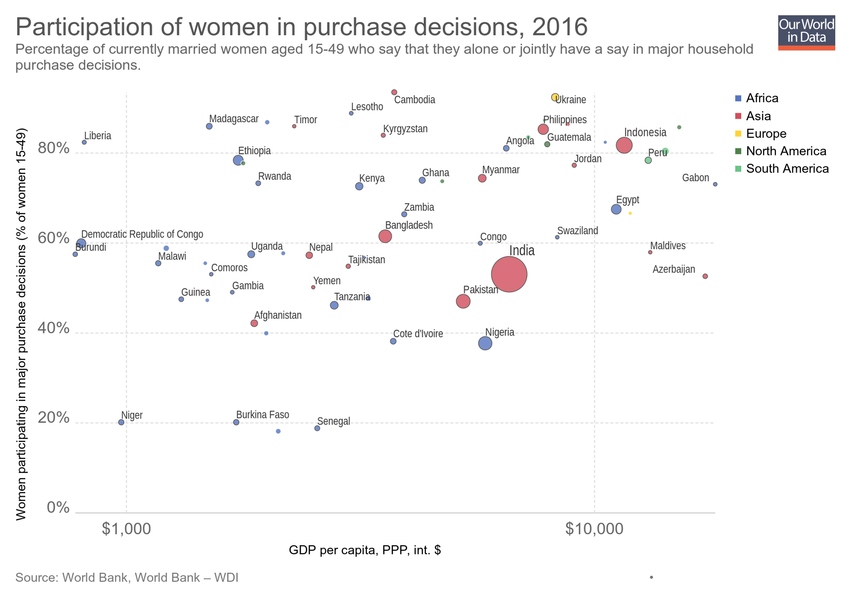
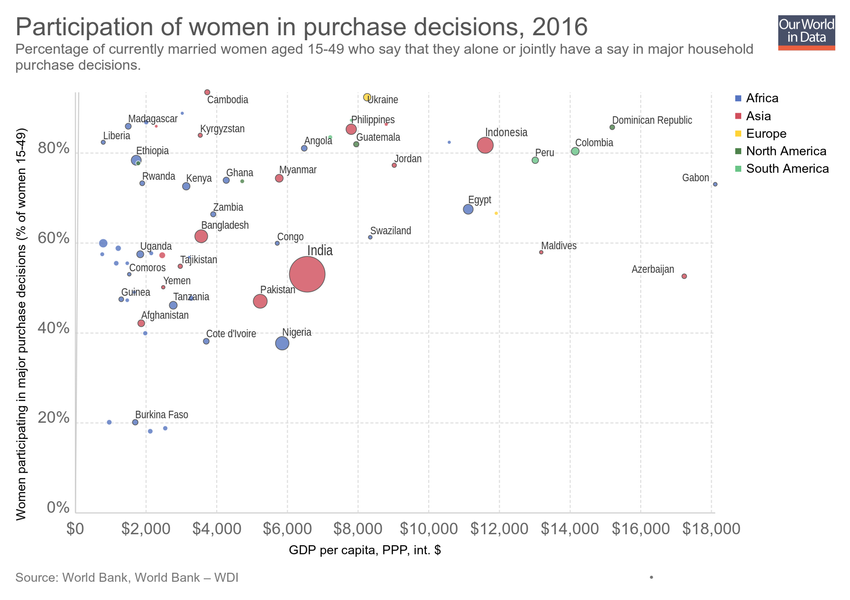
Updating chart participation-of-women-in-purchase-decisions

diff --git a/grapher/participation-of-women-in-purchase-decisions.html b/grapher/participation-of-women-in-purchase-decisions.html
@@ -1,4 +1,4 @@
-<!doctype html><html><head><meta name="viewport" content="width=device-width, initial-scale=1" /><title>Participation of women in purchase decisions - Our World in Data</title><meta name="description" content="Percentage of currently married women aged 15-49 who say that they alone or jointly have a say in major household purchase decisions." /><link rel="canonical" href="https://ourworldindata.org/grapher/participation-of-women-in-purchase-decisions" /><meta property="fb:app_id" content="1149943818390250" /><meta property="og:url" content="https://ourworldindata.org/grapher/participation-of-women-in-purchase-decisions" /><meta property="og:title" content="Participation of women in purchase decisions" /><meta property="og:description" content="Percentage of currently married women aged 15-49 who say that they alone or jointly have a say in major household purchase decisions." /><meta property="og:image" content="https://ourworldindata.org/grapher/exports/participation-of-women-in-purchase-decisions.png?v=6" /><meta property="og:image:width" content="850" /><meta property="og:image:height" content="600" /><meta property="og:site_name" content="Our World in Data" /><meta name="twitter:card" content="summary_large_image" /><meta name="twitter:site" content="@OurWorldInData" /><meta name="twitter:creator" content="@OurWorldInData" /><meta name="twitter:title" content="Participation of women in purchase decisions" /><meta name="twitter:description" content="Percentage of currently married women aged 15-49 who say that they alone or jointly have a say in major household purchase decisions." /><meta name="twitter:image" content="https://ourworldindata.org/grapher/exports/participation-of-women-in-purchase-decisions.png?v=6" /><style>
+<!doctype html><html><head><meta name="viewport" content="width=device-width, initial-scale=1" /><title>Participation of women in purchase decisions - Our World in Data</title><meta name="description" content="Percentage of currently married women aged 15-49 who say that they alone or jointly have a say in major household purchase decisions." /><link rel="canonical" href="https://ourworldindata.org/grapher/participation-of-women-in-purchase-decisions" /><meta property="fb:app_id" content="1149943818390250" /><meta property="og:url" content="https://ourworldindata.org/grapher/participation-of-women-in-purchase-decisions" /><meta property="og:title" content="Participation of women in purchase decisions" /><meta property="og:description" content="Percentage of currently married women aged 15-49 who say that they alone or jointly have a say in major household purchase decisions." /><meta property="og:image" content="https://ourworldindata.org/grapher/exports/participation-of-women-in-purchase-decisions.png?v=8" /><meta property="og:image:width" content="850" /><meta property="og:image:height" content="600" /><meta property="og:site_name" content="Our World in Data" /><meta name="twitter:card" content="summary_large_image" /><meta name="twitter:site" content="@OurWorldInData" /><meta name="twitter:creator" content="@OurWorldInData" /><meta name="twitter:title" content="Participation of women in purchase decisions" /><meta name="twitter:description" content="Percentage of currently married women aged 15-49 who say that they alone or jointly have a say in major household purchase decisions." /><meta name="twitter:image" content="https://ourworldindata.org/grapher/exports/participation-of-women-in-purchase-decisions.png?v=8" /><style>
         html, body {
             height: 100%;
             margin: 0;
@@ -20,8 +20,8 @@
         }
     </style><noscript><style>
                     figure { display: none !important; }
-                </style></noscript><link rel="stylesheet" href="https://ourworldindata.org/grapher/assets/commons.bundle.62f8703dfc964fd3975c.css" /><link rel="preload" href="/grapher/data/variables/43390+2210+72+123.json?v=6" as="fetch" crossorigin /></head><body class="singleChart"><figure data-grapher-src="/grapher/participation-of-women-in-purchase-decisions"></figure><noscript id="fallback"><img src="/grapher/exports/participation-of-women-in-purchase-decisions.svg" /><p>Interactive visualization requires JavaScript</p></noscript><script src="https://cdn.polyfill.io/v2/polyfill.min.js?features=es6,fetch"></script><script src="https://ourworldindata.org/grapher/assets/commons.bundle.62f8703dfc964fd3975c.js"></script><script src="https://ourworldindata.org/grapher/assets/charts.bundle.dcf65b68eddaba4c6a58.js"></script><script>
-        var jsonConfig = {"id":2414,"map":{"projection":"World","targetYear":2015,"variableId":43460,"colorSchemeLabels":[null,null,null,null,null],"colorSchemeValues":[],"defaultProjection":"World","colorSchemeMinValue":0,"customNumericColors":[],"customCategoryColors":{},"customCategoryLabels":{},"customHiddenCategories":{}},"tab":"chart","slug":"participation-of-women-in-purchase-decisions","type":"ScatterPlot","title":"Participation of women in purchase decisions","xAxis":{"min":0,"scaleType":"log","canChangeScaleType":true},"yAxis":{"min":0,"scaleType":"linear"},"maxTime":2016,"minTime":2016,"version":6,"subtitle":"Percentage of currently married women aged 15-49 who say that they alone or jointly have a say in major household purchase decisions.","hasMapTab":true,"stackMode":"absolute","dimensions":[{"display":{"name":"Women participating in major purchase decisions (% of women 15-49)","tolerance":10},"property":"y","variableId":43390},{"display":{"name":"GDP per capita, PPP, int. $","tolerance":10},"property":"x","variableId":2210},{"display":{},"property":"size","variableId":72},{"display":{},"property":"color","variableId":123}],"hasChartTab":true,"isPublished":true,"hideTimeline":true,"selectedData":[],"addCountryMode":"add-country","comparisonLine":{}};
+                </style></noscript><link rel="stylesheet" href="https://ourworldindata.org/grapher/assets/commons.bundle.62f8703dfc964fd3975c.css" /><link rel="preload" href="/grapher/data/variables/43390+2210+72+123.json?v=8" as="fetch" crossorigin /></head><body class="singleChart"><figure data-grapher-src="/grapher/participation-of-women-in-purchase-decisions"></figure><noscript id="fallback"><img src="/grapher/exports/participation-of-women-in-purchase-decisions.svg" /><p>Interactive visualization requires JavaScript</p></noscript><script src="https://cdn.polyfill.io/v2/polyfill.min.js?features=es6,fetch"></script><script src="https://ourworldindata.org/grapher/assets/commons.bundle.62f8703dfc964fd3975c.js"></script><script src="https://ourworldindata.org/grapher/assets/charts.bundle.dcf65b68eddaba4c6a58.js"></script><script>
+        var jsonConfig = {"id":2414,"map":{"projection":"World","targetYear":2015,"variableId":43460,"colorSchemeLabels":[null,null,null,null,null],"colorSchemeValues":[],"colorSchemeMinValue":0,"customNumericColors":[],"customCategoryColors":{},"customCategoryLabels":{},"customHiddenCategories":{}},"tab":"chart","slug":"participation-of-women-in-purchase-decisions","type":"ScatterPlot","title":"Participation of women in purchase decisions","xAxis":{"min":0,"scaleType":"linear","canChangeScaleType":true},"yAxis":{"min":0,"scaleType":"linear"},"maxTime":2016,"minTime":2016,"version":8,"subtitle":"Percentage of currently married women aged 15-49 who say that they alone or jointly have a say in major household purchase decisions.","hasMapTab":true,"stackMode":"absolute","dimensions":[{"display":{"name":"Women participating in major purchase decisions (% of women 15-49)","tolerance":10},"property":"y","variableId":43390},{"display":{"name":"GDP per capita, PPP, int. $","tolerance":10},"property":"x","variableId":2210},{"display":{},"property":"size","variableId":72},{"display":{},"property":"color","variableId":123}],"hasChartTab":true,"isPublished":true,"hideTimeline":true,"selectedData":[],"addCountryMode":"add-country","comparisonLine":{}};
         var figure = document.getElementsByTagName("figure")[0];
         try {
             window.App = {};
